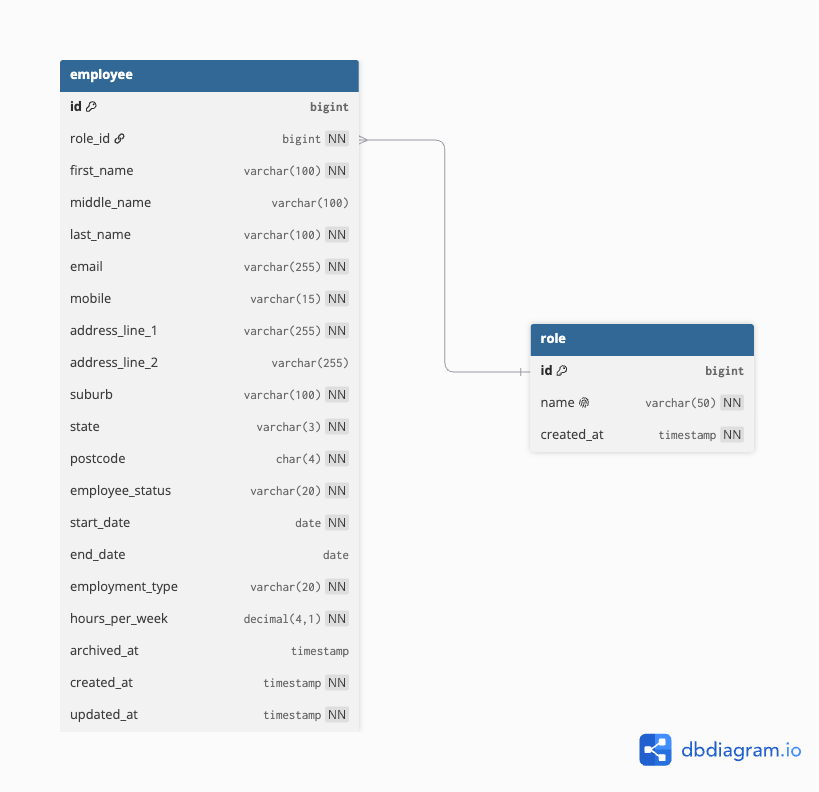
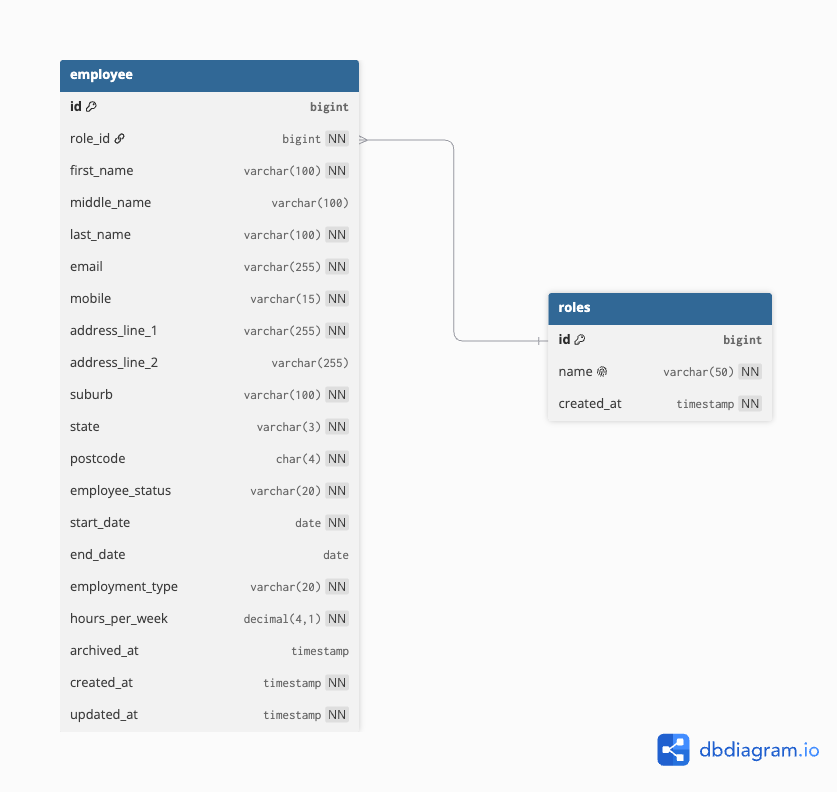
fixes Role entity, updates ERD and README

diff --git a/src/main/java/com/morganthen/employees_creator/role/entities/Role.java b/src/main/java/com/morganthen/employees_creator/role/entities/Role.java
@@ -1,6 +1,5 @@
 package com.morganthen.employees_creator.role.entities;
 
-import java.math.BigInteger;
 import java.time.LocalDateTime;
 
 import org.hibernate.annotations.CreationTimestamp;
@@ -20,15 +19,15 @@ public class Role {
     @GeneratedValue(strategy = GenerationType.IDENTITY)
     private Long id;
 
-    @Column(name = "name", nullable = false, unique = true)
+    @Column(name = "name", nullable = false, unique = true, length = 50)
     private String name;
 
     @CreationTimestamp
     @Column(name = "created_at", nullable = false)
     private LocalDateTime createdAt;
 
-    public Role(String name) {
-        this.name = name;
+    protected Role() {
+
     }
 
     public Long getId() {
@@ -47,11 +46,11 @@ public class Role {
         this.name = name;
     }
 
-    public LocalDateTime getCreated_at() {
+    public LocalDateTime getCreatedAt() {
         return createdAt;
     }
 
-    public void setCreated_at(LocalDateTime createdAt) {
+    public void setCreatedAt(LocalDateTime createdAt) {
         this.createdAt = createdAt;
     }
 

diff --git a/README.md b/README.md
@@ -77,14 +77,13 @@ Two tables: `employee` and `role`, joined N:1 (`employee.role_id` to `role.id`).
 
 ### Environment Variables
 
-| Variable         | Description                  | Example / Default       |
-| :--------------- | :--------------------------- | :---------------------- |
-| `DB_HOST`        | Database host address        | `localhost`             |
-| `DB_PORT`        | Database port number         | `3306` (MySQL)          |
-| `DB_NAME`        | Name of the database         | `employees_creator`     |
-| `DB_USERNAME`    | Database connection username | `root`                  |
-| `DB_PASSWORD`    | Database connection password | `your_secure_password`  |
-| `SPRING_PROFILE` | Active Spring profile        | `dev` / `prod` / `test` |
+| Variable      | Description                  | Example / Default       |
+| :------------ | :--------------------------- | :---------------------- |
+| `DB_HOST`     | Database host address        | `localhost`             |
+| `DB_PORT`     | Database port number         | `3306` (MySQL)          |
+| `DB_NAME`     | Name of the database         | `employees_creator`     |
+| `DB_USER`     | Database connection username | `root`                  |
+| `DB_PASSWORD` | Database connection password | (empty for local MySQL) |
 
 ### Example `.env` file
 
@@ -92,16 +91,16 @@ Two tables: `employee` and `role`, joined N:1 (`employee.role_id` to `role.id`).
 DB_HOST=localhost
 DB_PORT=3306
 DB_NAME=employees_creator
-DB_USERNAME=root
-DB_PASSWORD=secret
-SPRING_PROFILE=dev
+DB_USER=root
+DB_PASSWORD=
 ```
 
 Mapped in `application.properties`:
 
 ```properties
-spring.datasource.url=jdbc:mysql://${DB_HOST}:${DB_PORT}/${DB_NAME}
-spring.datasource.username=${DB_USERNAME}
+spring.config.import=optional:file:.env[.properties]
+spring.datasource.url=jdbc:mysql://${DB_HOST}:${DB_PORT}/${DB_NAME}?createDatabaseIfNotExist=true
+spring.datasource.username=${DB_USER}
 spring.datasource.password=${DB_PASSWORD}
 spring.jpa.hibernate.ddl-auto=update
 ```
@@ -123,7 +122,8 @@ spring.jpa.hibernate.ddl-auto=update
 ## Features
 
 - [x] Spring Boot scaffold boots (Maven, Spring Boot 4.1.1, Java 17 target)
-- [ ] `role` lookup entity, repository and `GET /api/roles`
+- [x] `role` lookup entity
+- [ ] `role` repository, service, seeder and `GET /api/roles`
 - [ ] `employee` entity and repository
 - [ ] Employee create, read, update and archive endpoints
 - [ ] Bean Validation (AU mobile, email, contract dates, hours, state)
@@ -135,7 +135,7 @@ spring.jpa.hibernate.ddl-auto=update
 ## Known Issues
 
 - No CI workflow yet, so the test badges above are placeholders until GitHub Actions is added.
-- Local MySQL credentials are not configured. Two Homebrew services exist (`mysql` 9.x running, `mysql@8.4` in an error state).
+- Local dev connects as MySQL `root` with an empty password, read from `.env`. Set a real password and keep it out of version control before any non-local use.
 - No global exception handling or standard API error shape yet.
 
 ---
@@ -161,11 +161,25 @@ spring.jpa.hibernate.ddl-auto=update
 - Added the MIT `LICENSE` file.
 - Added this README following the nology README standard.
 
+**03/10/2026 - MySQL Wiring & Role Entity**
+
+- Wired the app to MySQL: `application.properties` reads `${DB_*}` placeholders from a gitignored `.env` via `spring.config.import=optional:file:.env[.properties]`.
+- Created the `role` entity (`Long` id mapped to MySQL `BIGINT` identity, unique `name`, `createdAt` audit field).
+- Dropped the `description` field from `role` (YAGNI) and updated the ERD.
+
 ---
 
 ## What did you struggle with?
 
+**02/10/2026**
+
 - **Scope creep vs YAGNI on the schema:** judging which future needs to design for now (a separate addresses table, multi-role employees, public IDs) against keeping the MVP small. Resolved by limiting the MVP to two tables and writing down an explicit trigger for each deferred decision.
+
+**03/10/2026**
+
+- **Database wiring after a month off:** forgot the connection setup entirely and used the previous Spring Boot project as a starting point.
+- **JPA constructors:** added a `Role(String name)` constructor and forgot that it removes the implicit no-arg constructor Hibernate requires.
+- **Small details that slipped:** camelCase field naming, that `LocalDateTime` is available for audit timestamps, and matching the entity's `Long` id to the DB's `BIGINT`.
 
 ---
 
